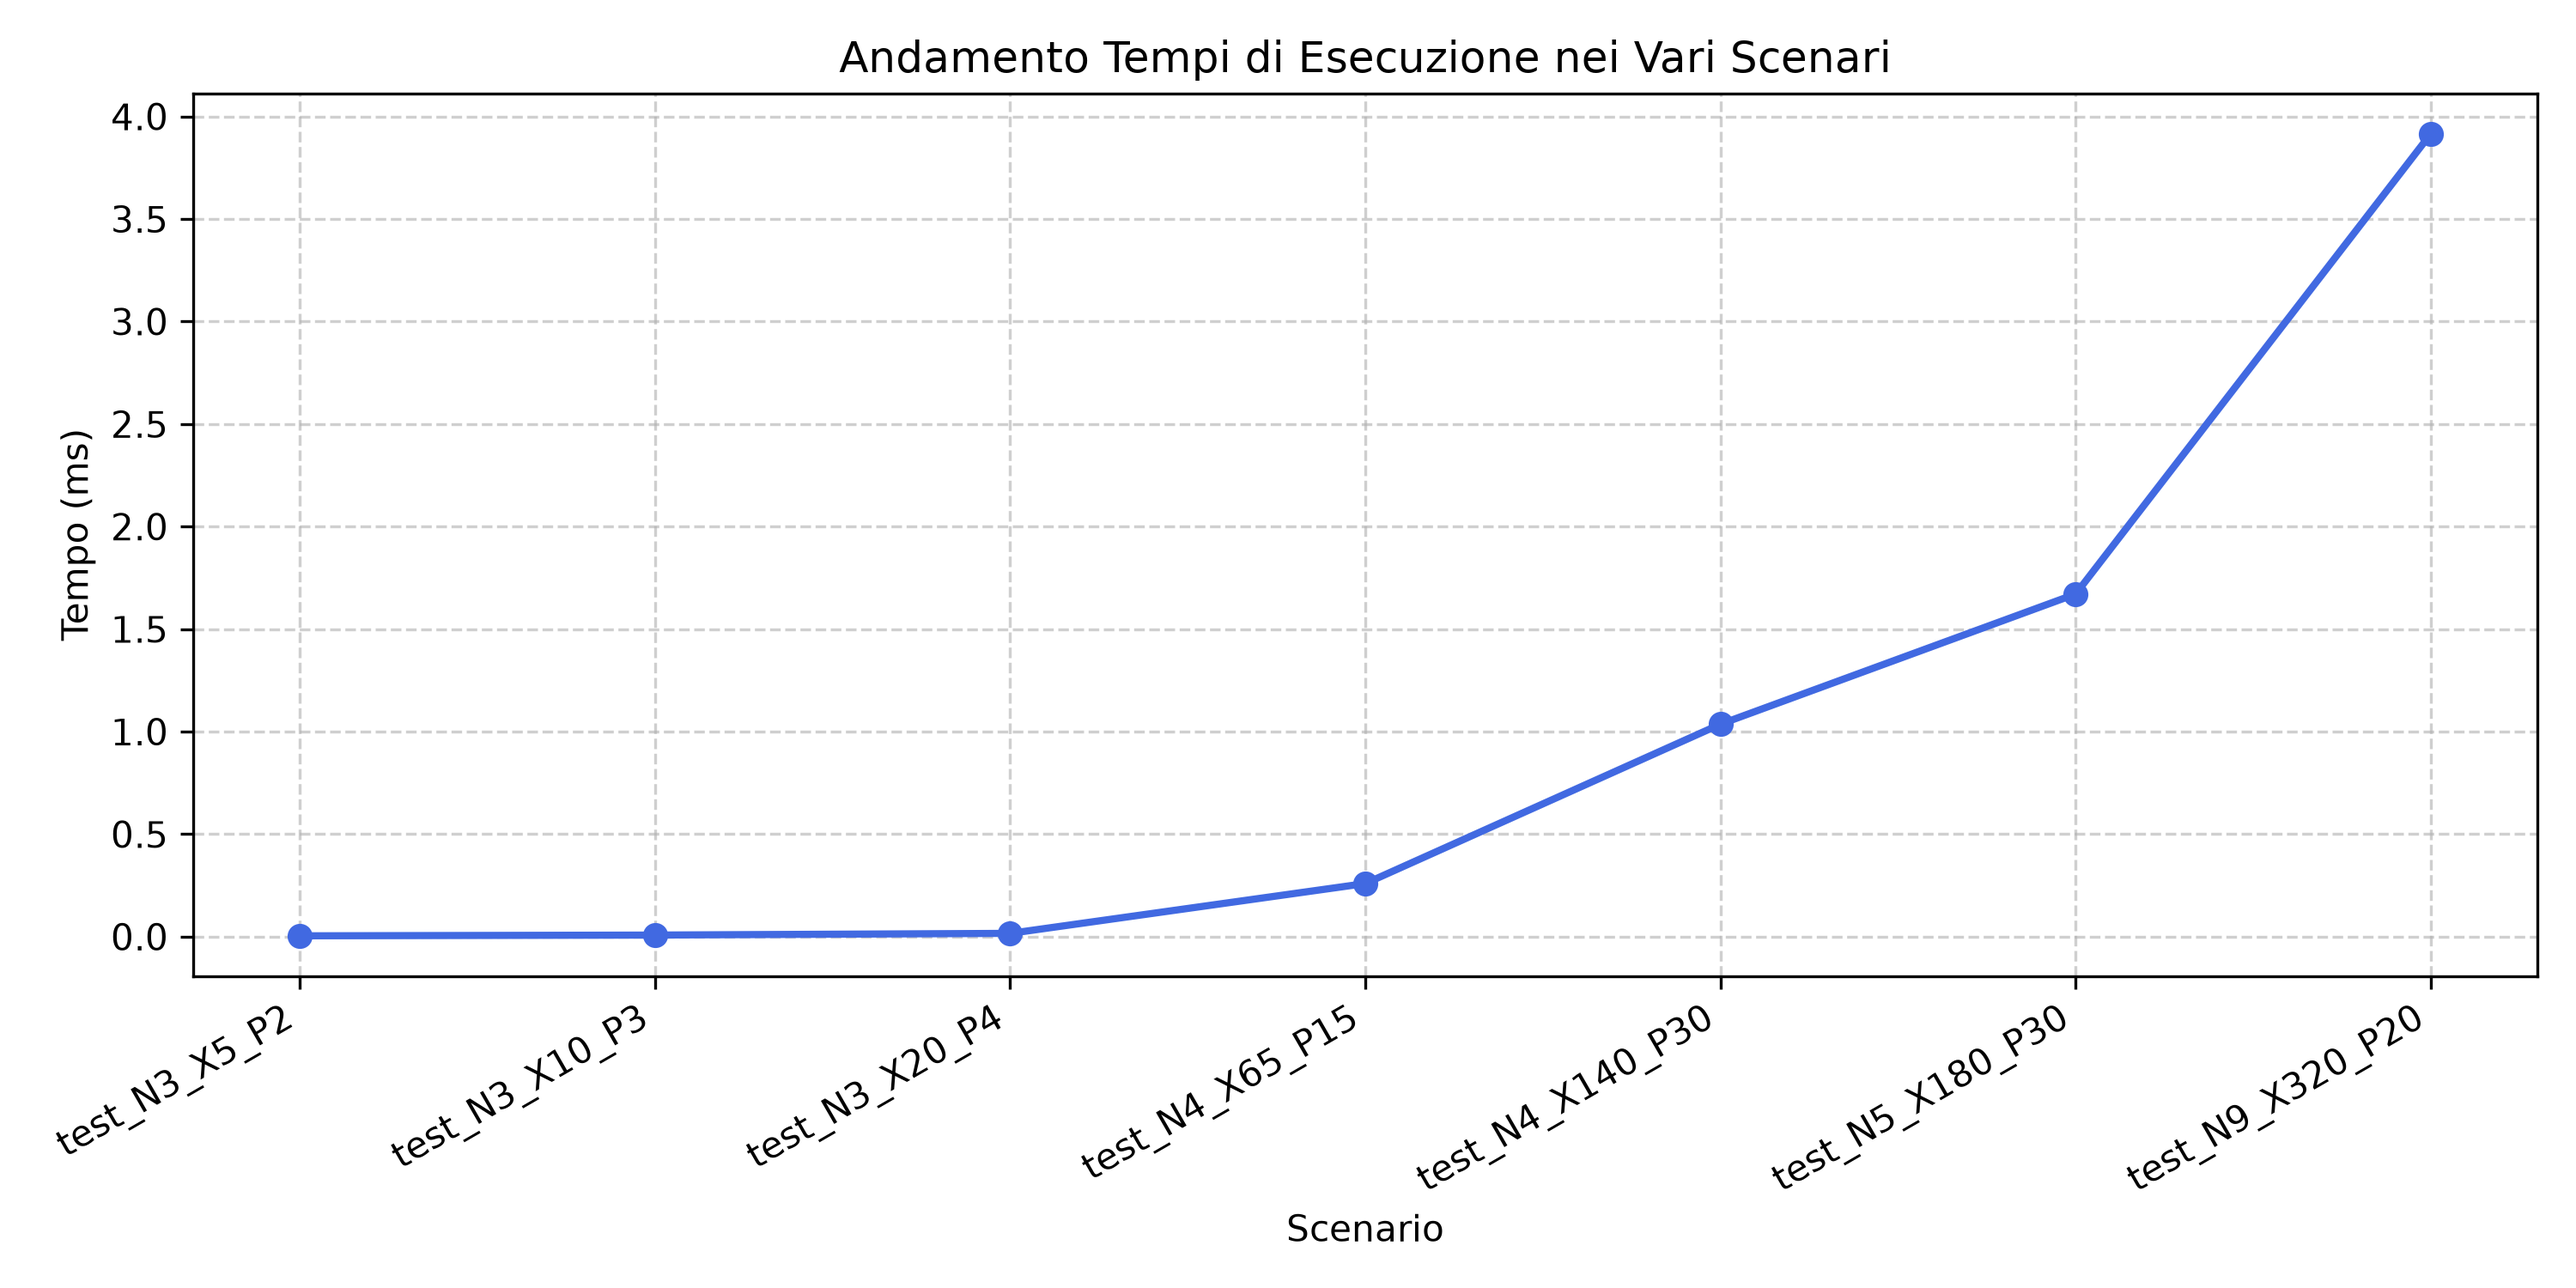
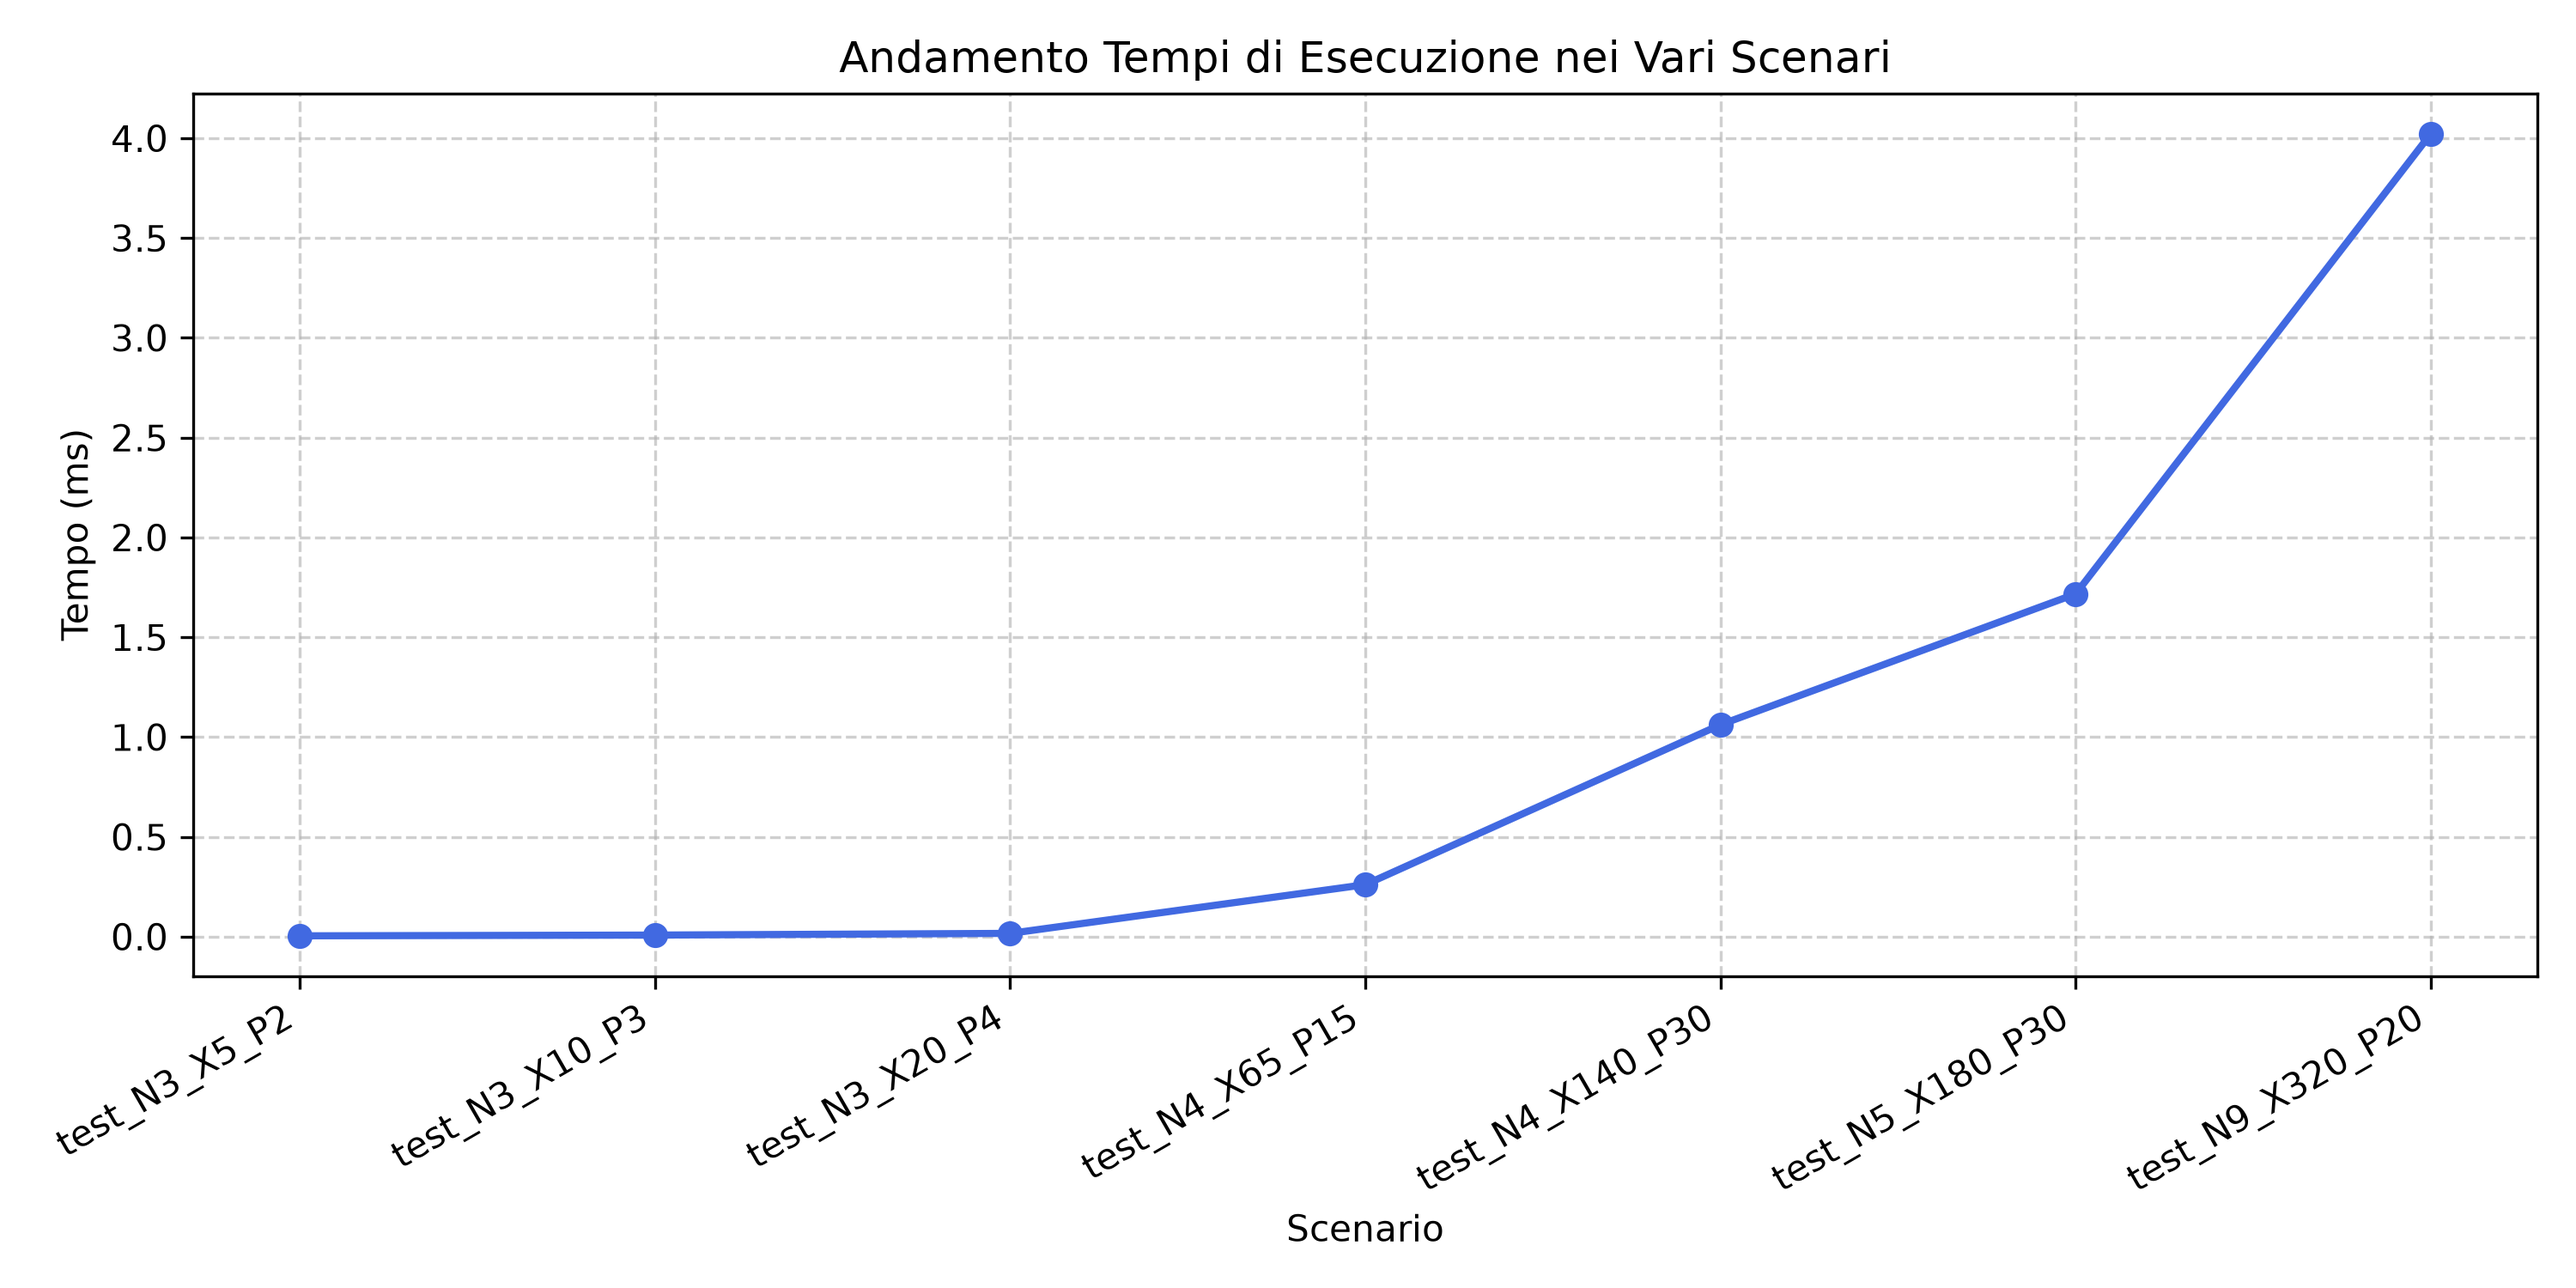
feat: introdotta classe DataExporter per metriche e matrici di ispezione
esportazione automatica risultati in CSV e formattazione tabelle m ed s

diff --git a/test.py b/test.py
@@ -3,6 +3,7 @@ import matplotlib.pyplot as plt
 
 from src.core.loader import load_scenario
 from src.benchmark.profiler import PerformanceProfiler
+from src.benchmark.exporter import DataExporter
 from src.algorithms.optimal_value import (
     compute_optimal_war,
     compute_optimal_war_without_s,
@@ -23,6 +24,7 @@ def get_instance_size(file_path):
 # ---------------------------------------------------------------------------------
 scenarios_dir = Path("scenarios")
 profiler = PerformanceProfiler(repetitions=15)
+exporter = DataExporter(output_dir="results")
 
 scenarios_names = []
 bottom_up_execution_times = []
@@ -47,6 +49,20 @@ for file_path in sorted(scenarios_dir.glob("*.json"), key=get_instance_size):
     print(f"Tempo computazionale effettivo: {time_ms:.4f} ms")
     print(f"Picco memoria RAM: {memory_kib:.2f} KiB")
     bottom_up_execution_times.append(time_ms)
+    exporter.add_metric(
+        {
+            "scenario": scenario.name,
+            "N": N,
+            "budget": X,
+            "B": scenario.B,
+            "P": P,
+            "instance_size": scenario.instance_size,
+            "algorithm": "Bottom Up (con s)",
+            "optimal_war": optimal_war,
+            "time_ms": time_ms,
+            "memory_kib": memory_kib,
+        }
+    )
 
     print("\n")
     print("-" * 10 + " Bottom Up Solver (solo matrice m) " + "-" * 10)
@@ -57,6 +73,20 @@ for file_path in sorted(scenarios_dir.glob("*.json"), key=get_instance_size):
     print(f"Optimal WAR: {optimal_war:.2f}")
     print(f"Tempo computazionale effettivo: {time_ms:.4f} ms")
     print(f"Picco memoria RAM: {memory_kib:.2f} KiB")
+    exporter.add_metric(
+        {
+            "scenario": scenario.name,
+            "N": N,
+            "budget": X,
+            "B": scenario.B,
+            "P": P,
+            "instance_size": scenario.instance_size,
+            "algorithm": "Bottom Up (solo m)",
+            "optimal_war": optimal_war,
+            "time_ms": time_ms,
+            "memory_kib": memory_kib,
+        }
+    )
 
     print("\n")
     print("-" * 10 + " Space Efficient Solver " + "-" * 10)
@@ -67,6 +97,20 @@ for file_path in sorted(scenarios_dir.glob("*.json"), key=get_instance_size):
     print(f"Optimal WAR: {optimal_war:.2f}")
     print(f"Tempo computazionale effettivo: {time_ms:.4f} ms")
     print(f"Picco memoria RAM: {memory_kib:.2f} KiB")
+    exporter.add_metric(
+        {
+            "scenario": scenario.name,
+            "N": N,
+            "budget": X,
+            "B": scenario.B,
+            "P": P,
+            "instance_size": scenario.instance_size,
+            "algorithm": "Space Efficient (1D)",
+            "optimal_war": optimal_war,
+            "time_ms": time_ms,
+            "memory_kib": memory_kib,
+        }
+    )
 
     print("\n")
     print("-" * 10 + " Top Down Memoized " + "-" * 10)
@@ -77,6 +121,20 @@ for file_path in sorted(scenarios_dir.glob("*.json"), key=get_instance_size):
     print(f"Optimal WAR: {optimal_war:.2f}")
     print(f"Tempo computazionale effettivo: {time_ms:.4f} ms")
     print(f"Picco memoria RAM: {memory_kib:.2f} KiB")
+    exporter.add_metric(
+        {
+            "scenario": scenario.name,
+            "N": N,
+            "budget": X,
+            "B": scenario.B,
+            "P": P,
+            "instance_size": scenario.instance_size,
+            "algorithm": "Top Down (Memoized)",
+            "optimal_war": optimal_war,
+            "time_ms": time_ms,
+            "memory_kib": memory_kib,
+        }
+    )
 
     # Preparazione candidati filtrati secondo Pareto
     filtered_players = filter_players(players, cost_unit, scenario.B)
@@ -90,6 +148,20 @@ for file_path in sorted(scenarios_dir.glob("*.json"), key=get_instance_size):
     print(f"Optimal WAR: {optimal_war:.2f}")
     print(f"Tempo computazionale effettivo: {time_ms:.4f} ms")
     print(f"Picco memoria RAM: {memory_kib:.2f} KiB")
+    exporter.add_metric(
+        {
+            "scenario": scenario.name,
+            "N": N,
+            "budget": X,
+            "B": scenario.B,
+            "P": P,
+            "instance_size": scenario.instance_size,
+            "algorithm": "Bottom Up (Pareto)",
+            "optimal_war": optimal_war,
+            "time_ms": time_ms,
+            "memory_kib": memory_kib,
+        }
+    )
 
     print("\n")
     print("-" * 10 + " Space Efficient Solver (Pareto Pruned) " + "-" * 10)
@@ -100,6 +172,20 @@ for file_path in sorted(scenarios_dir.glob("*.json"), key=get_instance_size):
     print(f"Optimal WAR: {optimal_war:.2f}")
     print(f"Tempo computazionale effettivo: {time_ms:.4f} ms")
     print(f"Picco memoria RAM: {memory_kib:.2f} KiB")
+    exporter.add_metric(
+        {
+            "scenario": scenario.name,
+            "N": N,
+            "budget": X,
+            "B": scenario.B,
+            "P": P,
+            "instance_size": scenario.instance_size,
+            "algorithm": "Space Efficient (Pareto)",
+            "optimal_war": optimal_war,
+            "time_ms": time_ms,
+            "memory_kib": memory_kib,
+        }
+    )
 
     print("\n")
     print("-" * 10 + " Reconstruction Test " + "-" * 10)
@@ -115,7 +201,9 @@ for file_path in sorted(scenarios_dir.glob("*.json"), key=get_instance_size):
 
     # Ricostruzione diretta da matrice valori m (senza s, -50% RAM)
     optimal_war_m, m = compute_optimal_war_without_s(N, X, players, cost_unit)
-    signed_players_m, cost_m = reconstruct_optimal_roster_without_s(N, X, players, m, cost_unit)
+    signed_players_m, cost_m = reconstruct_optimal_roster_without_s(
+        N, X, players, m, cost_unit
+    )
     print(
         f"\nRoster ricostruito tramite matrice m senza s (Costo: {cost_m}, Giocatori: {len(signed_players_m)}):"
     )
@@ -123,7 +211,9 @@ for file_path in sorted(scenarios_dir.glob("*.json"), key=get_instance_size):
         print(f"  - {p.name}: {p.war} WAR (costo: {p.cost})")
 
     # Ricostruzione con matrice m e Pruning di Pareto
-    optimal_war_p, m_p = compute_optimal_war_without_s(N, X, filtered_players, cost_unit)
+    optimal_war_p, m_p = compute_optimal_war_without_s(
+        N, X, filtered_players, cost_unit
+    )
     signed_players_p, cost_p = reconstruct_optimal_roster_without_s(
         N, X, filtered_players, m_p, cost_unit
     )
@@ -133,7 +223,28 @@ for file_path in sorted(scenarios_dir.glob("*.json"), key=get_instance_size):
     for p in signed_players_p:
         print(f"  - {p.name}: {p.war} WAR (costo: {p.cost})")
 
+    # Esportazione matrici per ispezione
+    role_labels = ["Base"] + [r.name for r in scenario.roles]
+    exporter.export_matrix_to_csv(
+        m, f"matrice_m_{scenario.name}.csv", row_labels=role_labels
+    )
+    exporter.export_matrix_to_csv(
+        s, f"matrice_s_{scenario.name}.csv", row_labels=role_labels
+    )
+
+    # Stampo a video le matrici per scenari piccoli
+    if scenario.B <= 10:
+        print("\n" + "-" * 10 + f" Ispezione Tabelle ({scenario.name}) " + "-" * 10)
+        print("Matrice m (Valori):")
+        print(exporter.format_matrix(m, row_labels=role_labels))
+        print("\nMatrice s (Decisioni):")
+        print(exporter.format_matrix(s, row_labels=role_labels))
+
     print("=" * 90 + "\n")
+
+# Esporta metriche complessive su CSV
+csv_metrics_path = exporter.export_metrics_to_csv("benchmark_metrics.csv")
+print(f"Tutte le metriche sono state salvate con successo in '{csv_metrics_path}'!\n")
 
 # -------------------------------------------------------------------------------------------------------------------
 print(bottom_up_execution_times)

diff --git a/src/benchmark/exporter.py b/src/benchmark/exporter.py
@@ -1,0 +1,99 @@
+import csv
+from pathlib import Path
+from typing import Any, Dict, List, Optional
+
+
+# Classe responsabile dell'esportazione delle metriche e delle matrici di ispezione
+class DataExporter:
+    def __init__(self, output_dir: str = "results"):
+        self.output_dir = Path(output_dir)
+        self.output_dir.mkdir(parents=True, exist_ok=True)
+        self.metrics_records: List[Dict[str, Any]] = []
+
+    # Registra una riga di metriche prestazionali
+    def add_metric(self, record: Dict[str, Any]):
+        self.metrics_records.append(record)
+
+    # Esporta l'elenco delle metriche registrate su file CSV
+    def export_metrics_to_csv(
+        self, filename: str = "benchmark_metrics.csv"
+    ) -> Optional[Path]:
+        if not self.metrics_records:
+            return None
+
+        file_path = self.output_dir / filename
+        fieldnames = list(self.metrics_records[0].keys())
+
+        with open(file_path, "w", newline="", encoding="utf-8") as f:
+            writer = csv.DictWriter(f, fieldnames=fieldnames)
+            writer.writeheader()
+            writer.writerows(self.metrics_records)
+
+        return file_path
+
+    # Esporta una matrice (m o s) su file CSV con etichette di riga e colonna
+    def export_matrix_to_csv(
+        self,
+        matrix: List[List[Any]],
+        filename: str,
+        row_labels: Optional[List[str]] = None,
+        col_labels: Optional[List[str]] = None,
+    ) -> Path:
+        file_path = self.output_dir / filename
+        num_rows = len(matrix)
+        num_cols = len(matrix[0])
+
+        if col_labels is None:
+            col_labels = [f"b={b}" for b in range(num_cols)]
+
+        header = ["Ruolo / Stato"] + col_labels
+
+        with open(file_path, "w", newline="", encoding="utf-8") as f:
+            writer = csv.writer(f)
+            writer.writerow(header)
+
+            for i, row in enumerate(matrix):
+                label = (
+                    row_labels[i] if row_labels and i < len(row_labels) else f"i={i}"
+                )
+                formatted_row = [label] + [
+                    f"{val:.1f}" if isinstance(val, float) else val for val in row
+                ]
+                writer.writerow(formatted_row)
+
+        return file_path
+
+    # Formattazione della matrice per ispezione con header, indentazione e 1 decimale
+    def format_matrix(self, matrix, row_labels=None, col_labels=None):
+        if not matrix:
+            return ""
+
+        num_cols = len(matrix[0])
+        if col_labels is None:
+            col_labels = [f"b={b}" for b in range(num_cols)]
+
+        headers = ["Ruolo"] + col_labels
+        rows_data = []
+
+        for i, row in enumerate(matrix):
+            label = row_labels[i] if row_labels and i < len(row_labels) else f"i={i}"
+            formatted_vals = [
+                f"{val:.1f}" if isinstance(val, float) else str(val) for val in row
+            ]
+            rows_data.append([label] + formatted_vals)
+
+        col_widths = [len(h) for h in headers]
+        for row in rows_data:
+            for c_idx, cell in enumerate(row):
+                col_widths[c_idx] = max(col_widths[c_idx], len(cell))
+
+        def format_row(row):
+            parts = [row[0].ljust(col_widths[0])]
+            parts.extend(row[c].rjust(col_widths[c]) for c in range(1, len(row)))
+            return "   ".join(parts)
+
+        lines = [format_row(headers)]
+        for row in rows_data:
+            lines.append(format_row(row))
+
+        return "\n".join(lines)

diff --git a/src/core/loader.py b/src/core/loader.py
@@ -22,10 +22,11 @@ def load_scenario_from_json(file_path):
             raise ValueError("Il numero di candidati per ruolo deve essere costante.")
 
         role_players = [
-            Player(name=c["name"], cost=c["cost"], war=c["war"])
-            for c in candidates
+            Player(name=c["name"], cost=c["cost"], war=c["war"]) for c in candidates
         ]
-        roles.append(Role(name=role_item.get("role_name", "Ruolo"), candidates=role_players))
+        roles.append(
+            Role(name=role_item.get("role_name", "Ruolo"), candidates=role_players)
+        )
 
     return Scenario(
         name=scenario_name,
